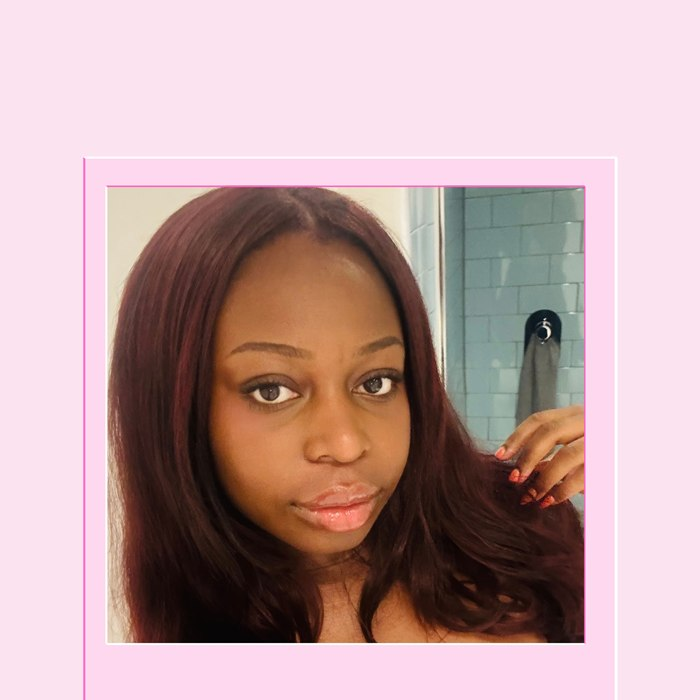
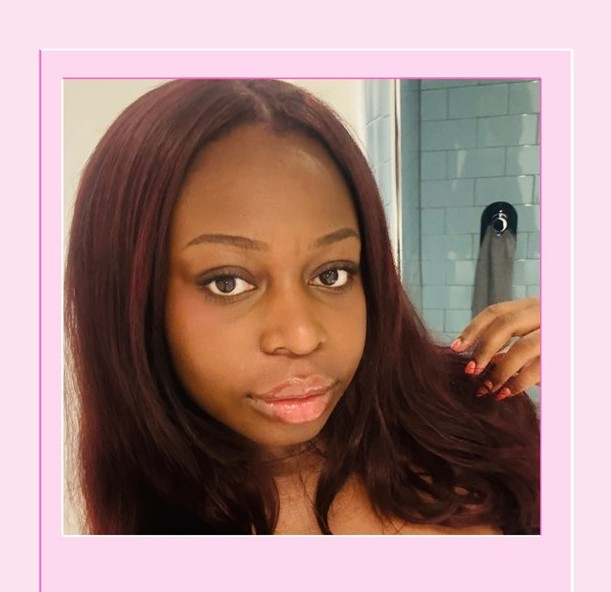
update js - contact fom & change structure

diff --git a/contact.html b/contact.html
@@ -24,12 +24,12 @@
 
 <main>
 
-  <div class="hero" style="padding-bottom:20px;">
+  <section class="hero" style="padding-bottom:20px;">
     <h1>Let&rsquo;s connect</h1>
     <p style="text-transform:uppercase;letter-spacing:2px;font-size:13px;">Classes &middot; Collaborations &middot; Bookings</p>
-  </div>
+  </section>
 
-  <div class="tabs">
+  <nav class="tabs" aria-label="Contact form type">
     <div class="tab-btn-wrap">
       <button class="tab" type="button" data-target="classes" aria-pressed="false">The &lsquo;Perfect&rsquo; Sew In Classes</button>
       <button class="info-toggle" type="button" data-info-target="classes-info" aria-label="More information about the Perfect Sew In classes">i</button>
@@ -38,7 +38,7 @@
       <button class="tab" type="button" data-target="collab" aria-pressed="false">Collaborations / Shoots</button>
       <button class="info-toggle" type="button" data-info-target="collab-info" aria-label="More information about collaborations">i</button>
     </div>
-  </div>
+  </nav>
 
   <div class="tab-info-panel" id="classes-info" style="max-width:640px;margin:-30px auto 30px;">This form is for those interested in The &lsquo;perfect&rsquo; sew in classes coming in September.
 
@@ -47,10 +47,10 @@ You will be the first to receive a full brief once details are finalised.</div>
 
 Send an enquiry with full details.</div>
 
-  <div class="about-strip" id="about">
+  <section class="about-strip" id="about">
     <img src="images/about-photo.jpg" alt="Lilian, founder of Les Braid It" class="about-photo">
     <p><strong>Hi, I&rsquo;m Lilian.</strong> I have over 10 years of experience.<br>
-    Hairstyling is my form of creative expression &mdash; a space where I can experiment, push boundaries, and turn traditional styles into something new.<br>
+    Hairstyling is my form of creative expression - a space where I can experiment, push boundaries, and turn traditional styles into something new.<br>
     I love working with different textures and braids, discovering just how versatile hair can truly be.<br>
     My goal is to share that versatility with every client, creating something that feels personal, creative, and uniquely theirs.<br>
     It&rsquo;s always more than just hair.</p>
@@ -60,7 +60,7 @@ Send an enquiry with full details.</div>
       <a href="https://www.tiktok.com/@lesbraidit" target="_blank" rel="noopener noreferrer" aria-label="TikTok"><img src="images/icons/social-tiktok.png" alt=""></a>
       <a href="mailto:lesbraidit@outlook.com" aria-label="Email"><img src="images/icons/social-email.png" alt=""></a>
     </div>
-  </div>
+  </section>
 
   <section class="form-section" id="classes">
     <h2>The &lsquo;Perfect&rsquo; Sew In Classes</h2>

diff --git a/main.js b/main.js
@@ -113,13 +113,22 @@ document.addEventListener('DOMContentLoaded', function () {
   }
 
   var infoToggles = Array.prototype.slice.call(document.querySelectorAll('.info-toggle[data-info-target]'));
-  infoToggles.forEach(function (btn) {
-    btn.addEventListener('click', function (e) {
-      e.stopPropagation();
-      var panel = document.getElementById(btn.getAttribute('data-info-target'));
-      if (panel) panel.classList.toggle('is-open');
+infoToggles.forEach(function (btn) {
+  btn.addEventListener('click', function (e) {
+    e.stopPropagation();
+    var panel = document.getElementById(btn.getAttribute('data-info-target'));
+    var isCurrentlyOpen = panel.classList.contains('is-open');
+
+    // close every info panel first
+    infoToggles.forEach(function (otherBtn) {
+      var otherPanel = document.getElementById(otherBtn.getAttribute('data-info-target'));
+      if (otherPanel) otherPanel.classList.remove('is-open');
     });
+
+    // then reopen this one, unless it was already open (so clicking it again closes it)
+    if (panel && !isCurrentlyOpen) panel.classList.add('is-open');
   });
+});
 
   /* ---------------- Mobile nav toggle ---------------- */
   var navToggle = document.querySelector('.nav-toggle');
